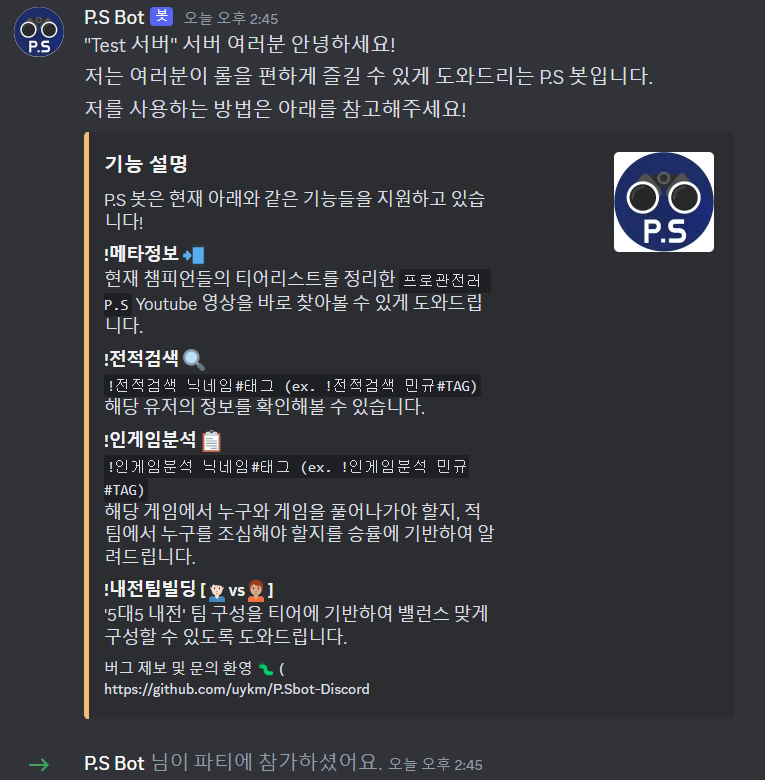
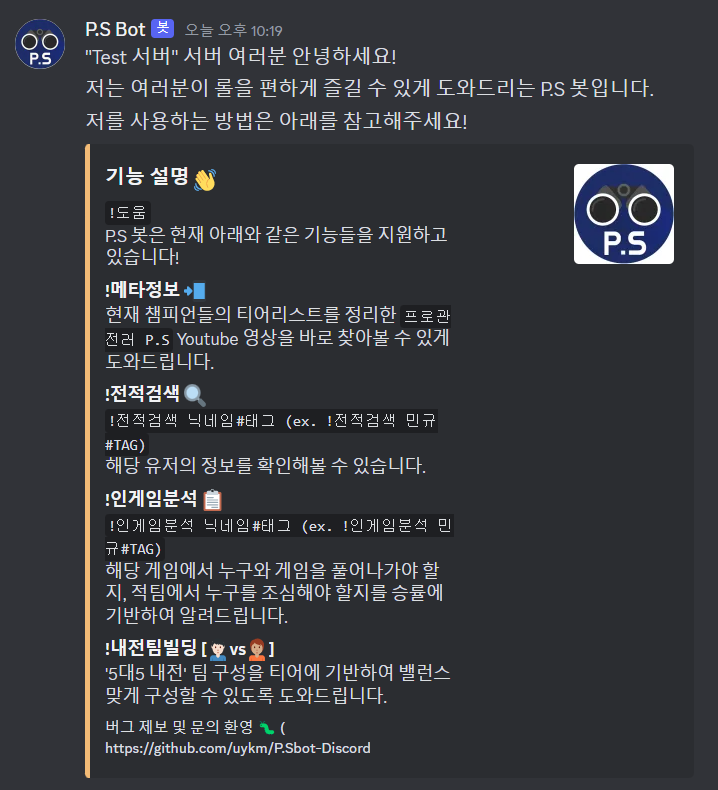
수정

diff --git a/main.py b/main.py
@@ -54,16 +54,16 @@ async def on_guild_join(guild):
     for channel in guild.text_channels:
         if channel.permissions_for(guild.me).send_messages:
             await guild.system_channel.send("\"" + guild.name + "\"" + " 서버 여러분 안녕하세요!")
-            await guild.system_channel.send("저는 여러분이 롤을 편하게 즐길 수 있게 도와드리는 P.S 봇입니다.")
-            await guild.system_channel.send("저를 사용하는 방법은 아래를 참고해주세요!")
+            await guild.system_channel.send("저는 여러분이 롤을 편하게 즐길 수 있게 도와드리는 P.S Bot입니다.")
+            await guild.system_channel.send("저를 사용하는 방법에 대해선 아래를 참고해주세요!")
             await guild.system_channel.send(embed=commandInfo())
             break
 
 
 @client.event
 async def on_member_join(member):
-    await find_first_channel(member.guild.text_channels).send(member.name + "님 안녕하세요, 저는 P.S 봇입니다.")
-    await find_first_channel(member.guild.text_channels).send("저를 사용하는 방법은 \"!명령어\" 를 입력하시면 확인하실 수 있습니다.")
+    await find_first_channel(member.guild.text_channels).send(member.name + "님 안녕하세요, 저는 P.S Bot입니다.")
+    await find_first_channel(member.guild.text_channels).send("도움이 필요하시면 \"!도움\" 을 외쳐주세요!")
 
 
 @client.event
